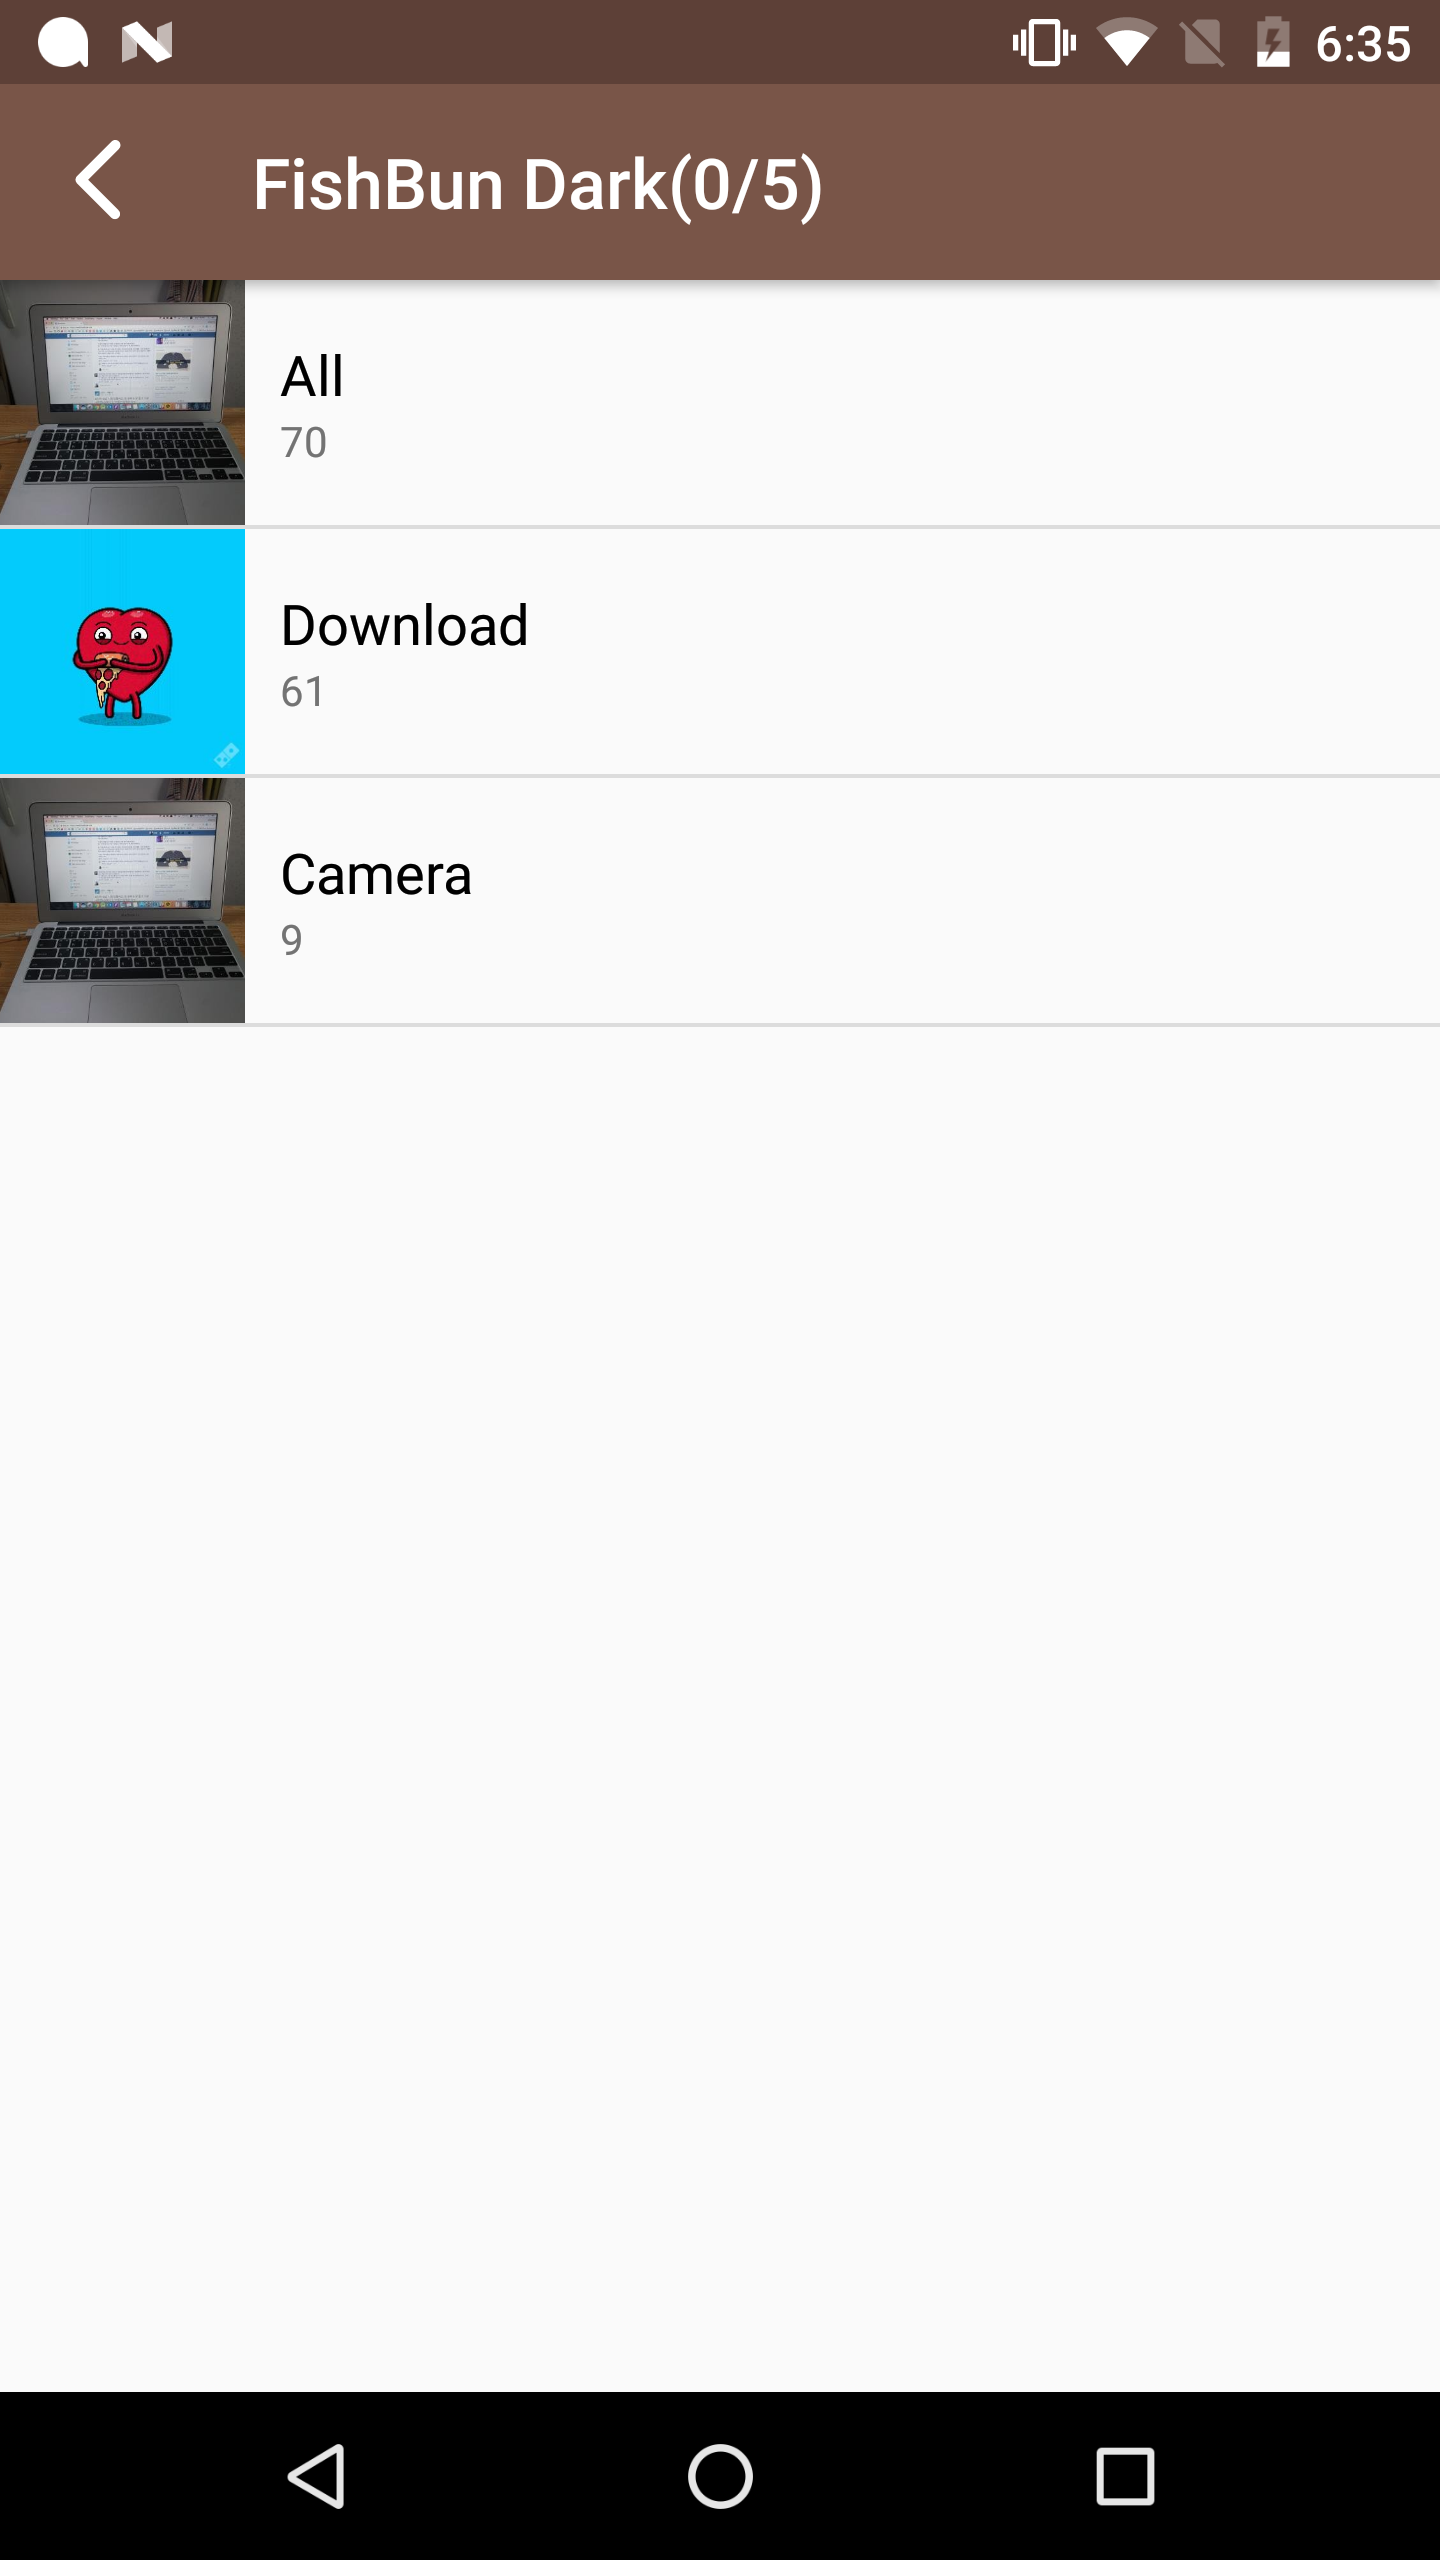
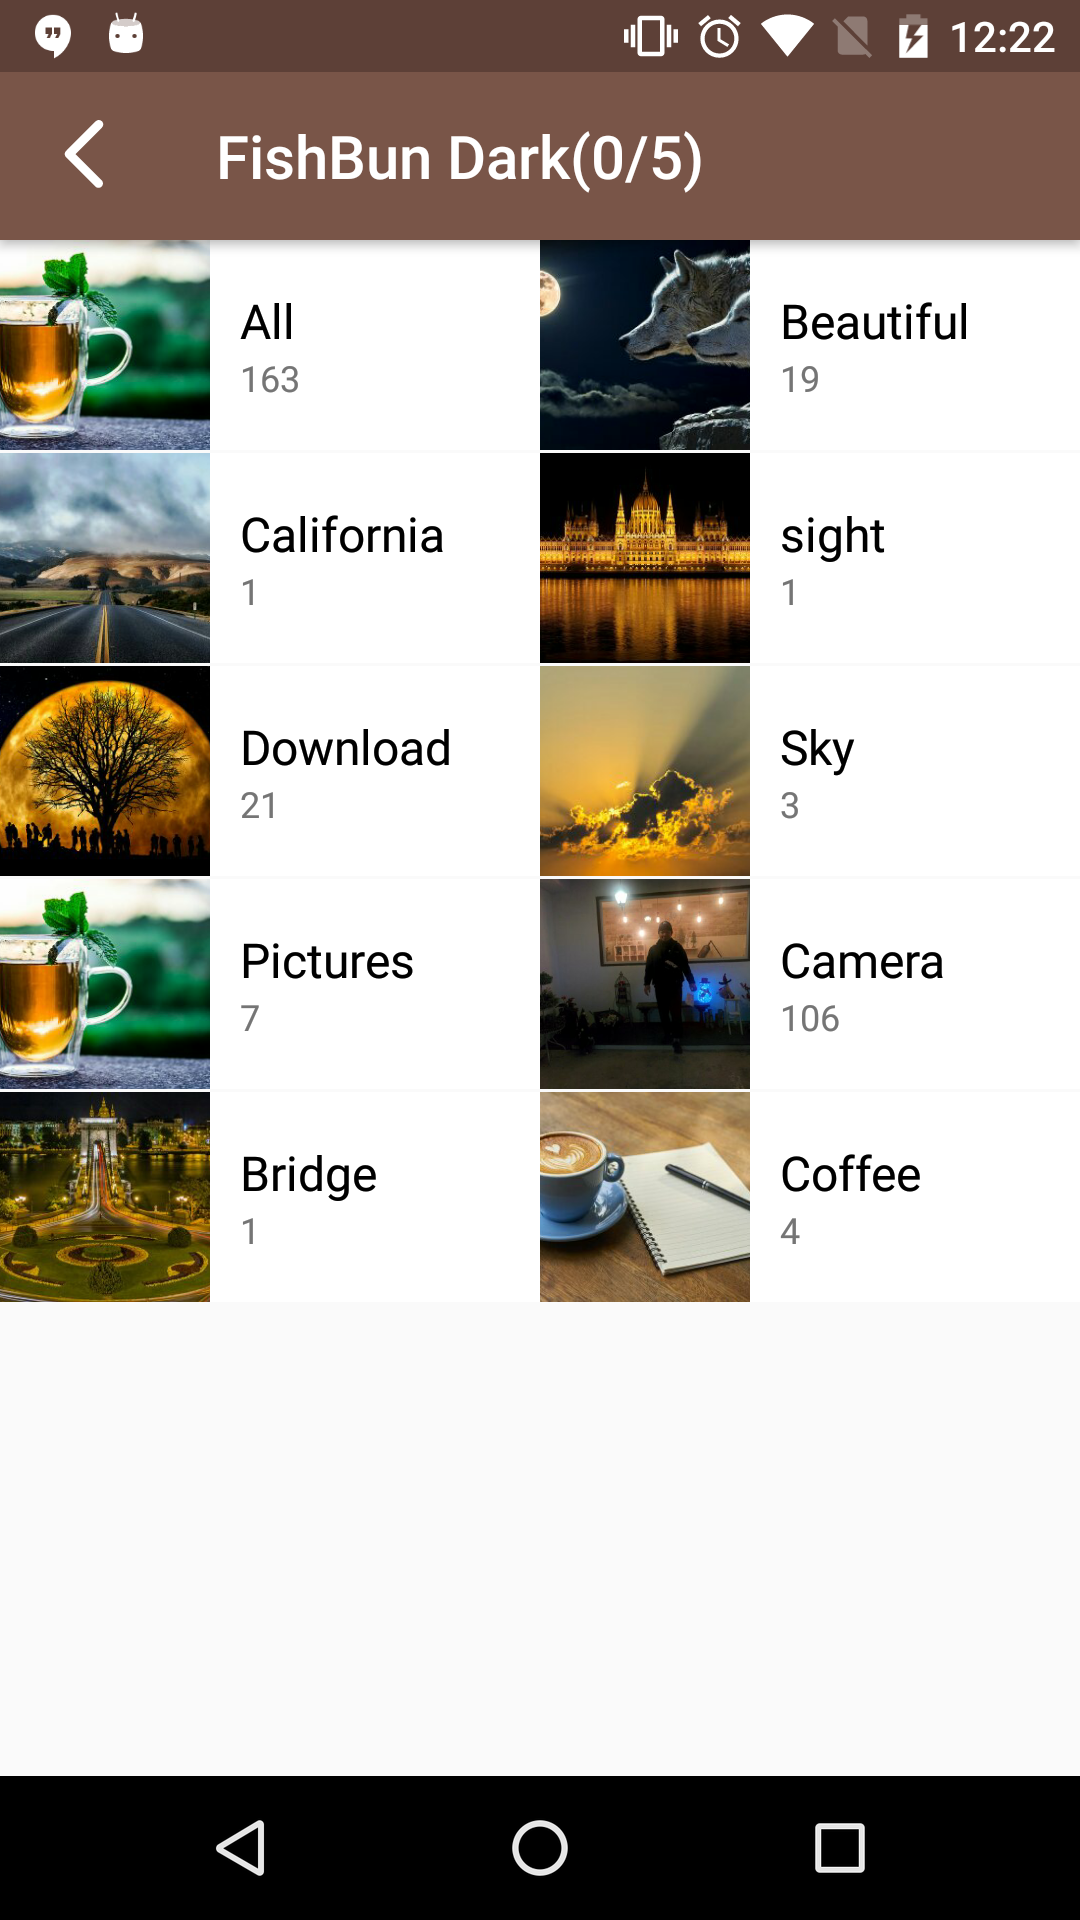
chore (FishBun): prepare release

diff --git a/FishBunDemo/src/main/java/com/sangcomz/fishbundemo/WithActivityActivity.java b/FishBunDemo/src/main/java/com/sangcomz/fishbundemo/WithActivityActivity.java
@@ -81,11 +81,11 @@ public class WithActivityActivity extends AppCompatActivity {
                             .MultiPageMode()
                             .setMaxCount(5)
                             .setMinCount(3)
-                            .setPickerSpanCount(6)
+                            .setPickerSpanCount(5)
                             .setActionBarColor(Color.parseColor("#795548"), Color.parseColor("#5D4037"), false)
                             .setActionBarTitleColor(Color.parseColor("#ffffff"))
                             .setArrayPaths(path)
-                            .setAlbumSpanCount(1, 2)
+                            .setAlbumSpanCount(2, 3)
                             .setButtonInAlbumActivity(false)
                             .setCamera(true)
                             .exceptGif(true)
@@ -107,7 +107,7 @@ public class WithActivityActivity extends AppCompatActivity {
                             .setActionBarColor(Color.parseColor("#ffffff"), Color.parseColor("#ffffff"), true)
                             .setActionBarTitleColor(Color.parseColor("#000000"))
                             .setArrayPaths(path)
-                            .setAlbumSpanCount(2, 4)
+                            .setAlbumSpanCount(1, 2)
                             .setButtonInAlbumActivity(true)
                             .setCamera(false)
                             .exceptGif(true)

diff --git a/README.md b/README.md
@@ -15,17 +15,18 @@ FishBun is Image Picker for android.
 
 <img src="/pic/fishbuns.png">
 
-## What's New 0.7.0 FishBun
+## What's New 0.7.1 FishBun
 
 #### ● You can use Detail View (#73)
 #### ● Refactoring FishBun (#86) **[(The default usage has changed)](#how-to-use)**
+#### ● Fix Count issue (#96)
 
 ## Customization Screen
 
 You can create image pickers in various ways.
 
 ##### Normal Style
-<img src="/pic/normal1.png" width=40%> <img src="/pic/normal2.png" width=40%>
+<img src="/pic/default1.png" width=40%> <img src="/pic/default2.png" width=40%>
 
 ##### Dark Style
 <img src="/pic/dark1.png" width=40%> <img src="/pic/dark2.png" width=40%>
@@ -42,7 +43,7 @@ You can create image pickers in various ways.
     }
 
     dependencies {
-        compile('com.sangcomz:FishBun:0.7.0@aar') {
+        compile('com.sangcomz:FishBun:0.7.1@aar') {
             transitive = true
         }
     }
